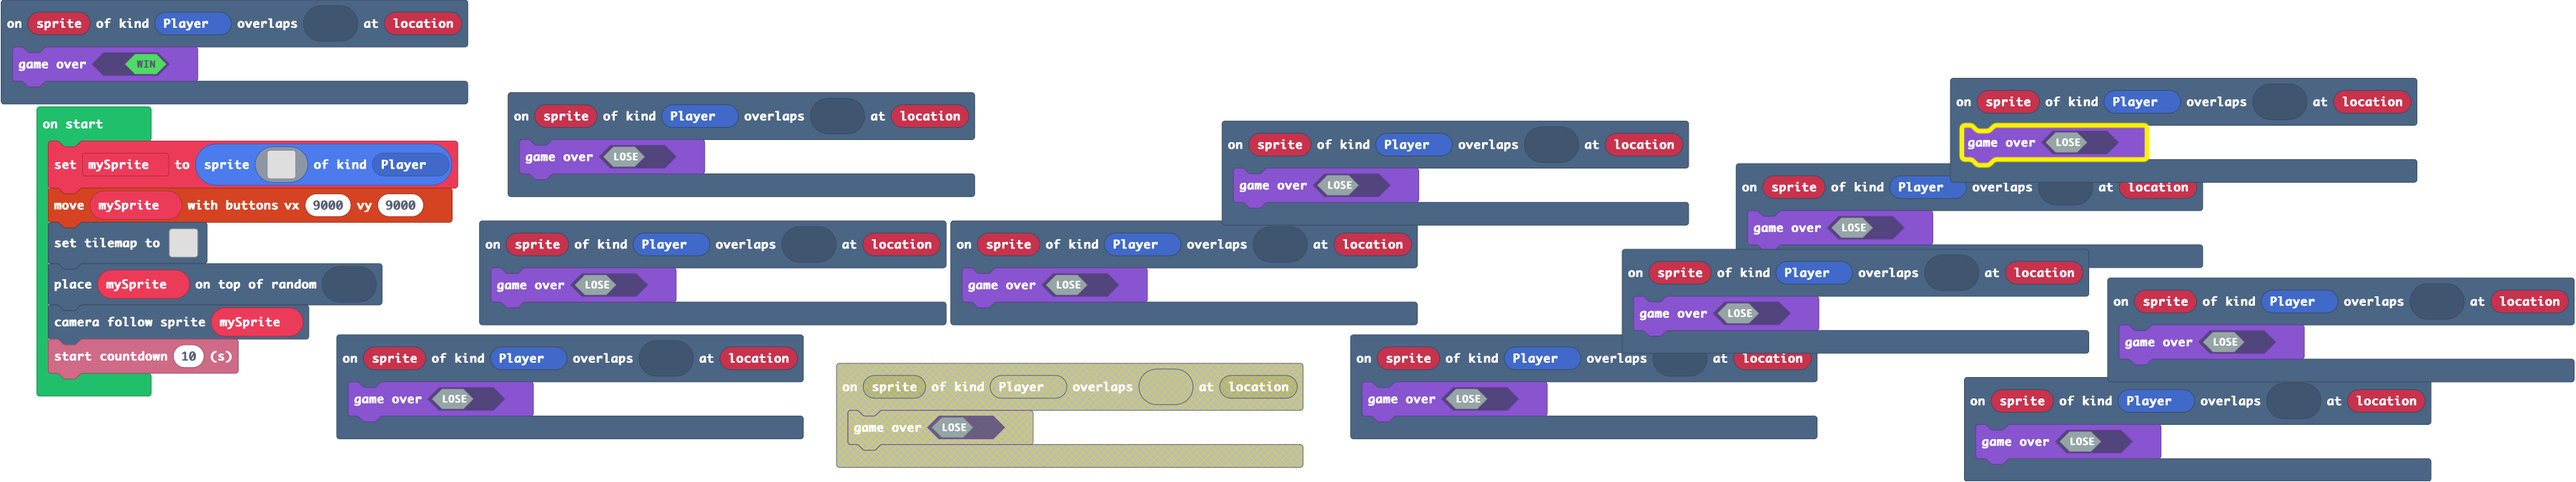
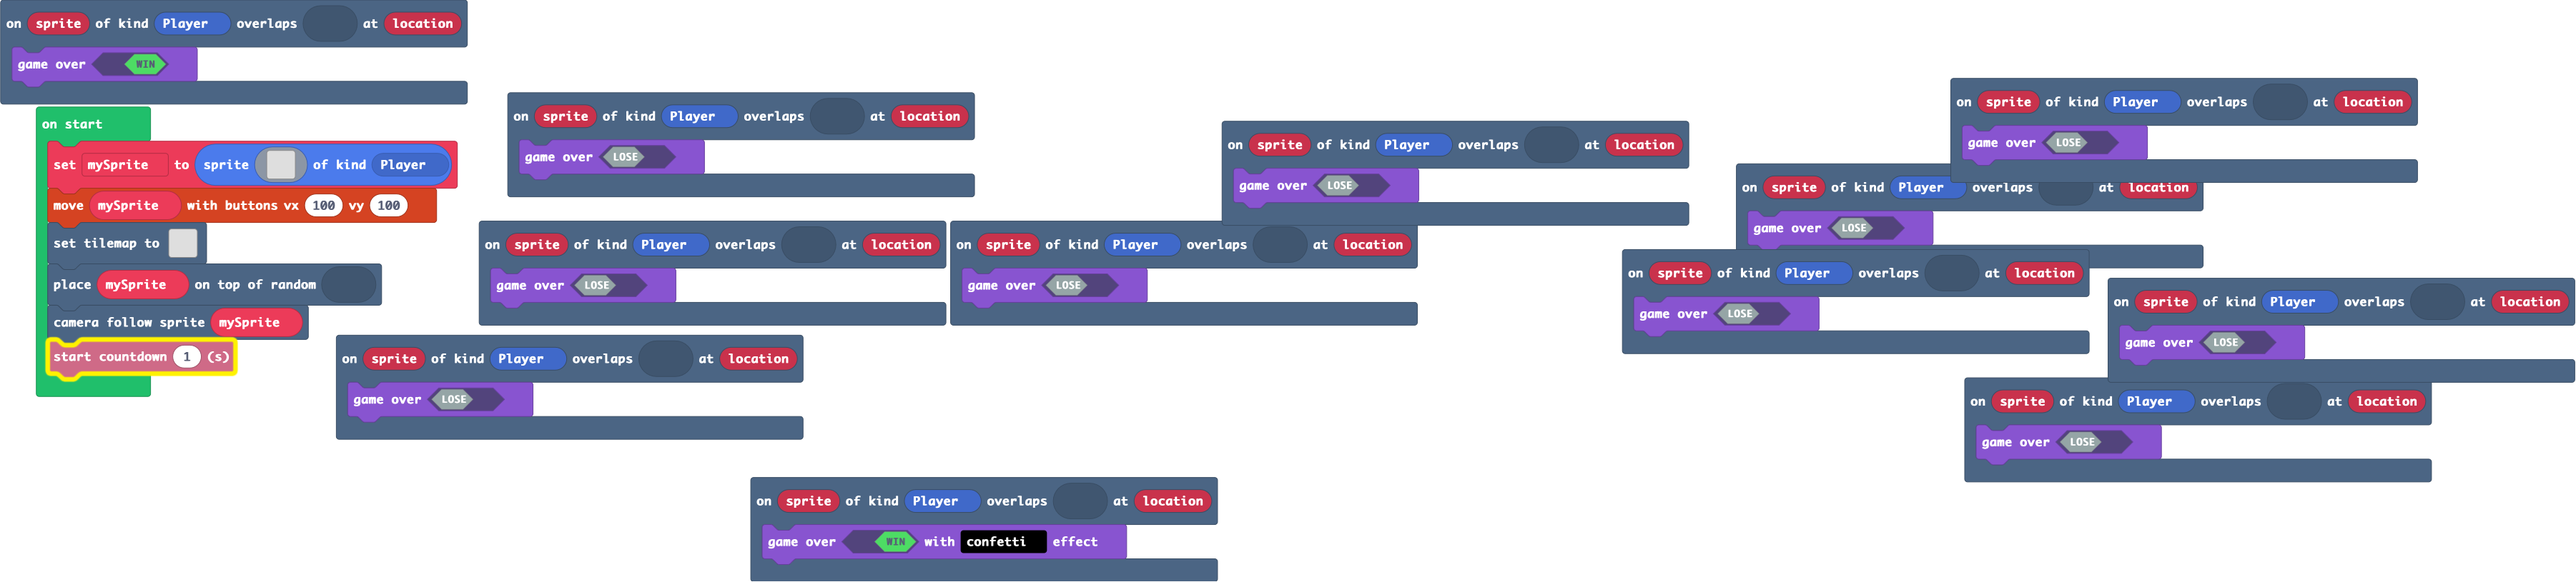
Update main.blocks, main.ts

diff --git a/main.ts b/main.ts
@@ -19,13 +19,13 @@ scene.onOverlapTile(SpriteKind.Player, sprites.dungeon.greenOuterNorthEast, func
 scene.onOverlapTile(SpriteKind.Player, sprites.dungeon.stairWest, function (sprite, location) {
     game.over(true)
 })
+scene.onOverlapTile(SpriteKind.Player, sprites.dungeon.greenOuterEast2, function (sprite, location) {
+    game.over(true, effects.confetti)
+})
 scene.onOverlapTile(SpriteKind.Player, sprites.dungeon.greenOuterEast1, function (sprite, location) {
     game.over(false)
 })
 scene.onOverlapTile(SpriteKind.Player, sprites.dungeon.greenOuterSouth0, function (sprite, location) {
-    game.over(false)
-})
-scene.onOverlapTile(SpriteKind.Player, sprites.dungeon.greenOuterSouth1, function (sprite, location) {
     game.over(false)
 })
 scene.onOverlapTile(SpriteKind.Player, sprites.dungeon.greenOuterSouthEast, function (sprite, location) {
@@ -60,8 +60,8 @@ let mySprite = sprites.create(img`
     ........................
     ........................
     `, SpriteKind.Player)
-controller.moveSprite(mySprite, 9000, 9000)
+controller.moveSprite(mySprite, 100, 100)
 tiles.setTilemap(tilemap`level_1`)
 tiles.placeOnRandomTile(mySprite, sprites.dungeon.stairLadder)
 scene.cameraFollowSprite(mySprite)
-info.startCountdown(10)
+info.startCountdown(1)
